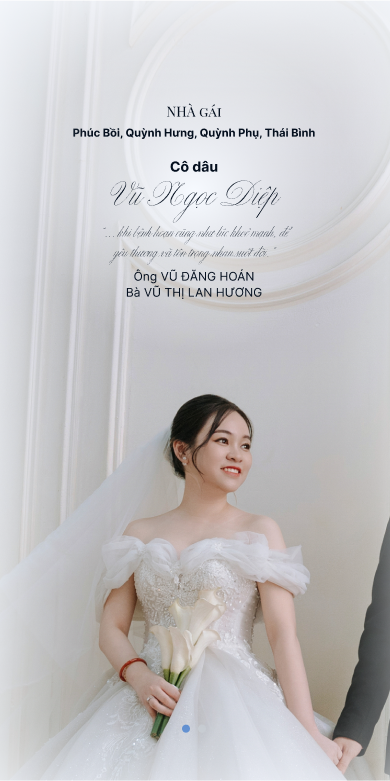
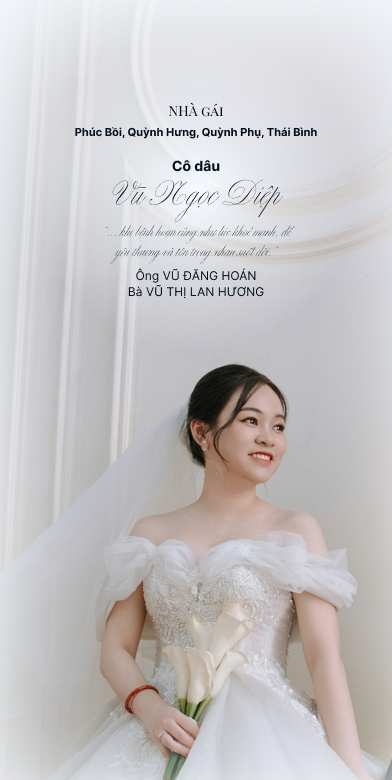
refactor: change background image to 2 separate background

diff --git a/src/components/Couple.js b/src/components/Couple.js
@@ -12,55 +12,88 @@ export const CoupleSession = forwardRef(function Couple(_, ref) {
   const theme = useTheme();
   const { isPhone } = useMedia();
   const nhaTrai = nha === "trai";
-  const [state, setState] = useState(nhaTrai ? "100%" : "0%");
+  const [state, setState] = useState(nhaTrai);
   const handleClick = () => {
-    return state === "100%" ? setState("0%") : setState("100%");
+    setState((prev) => !prev);
   };
   return isPhone ? (
-    <Box height={780} ref={ref}>
-      <Stack
-        sx={{
-          background: `linear-gradient(180deg, rgba(247, 250, 255, 0.00) 0%, rgba(247, 250, 255, 0.00) 10.66%, rgba(247, 250, 255, 0.00) 35.92%), linear-gradient(180deg, rgba(247, 250, 255, 0.20) 0%, rgba(247, 250, 255, 0.00) 28.33%), linear-gradient(180deg, rgba(255, 255, 255, 0.20) 8.85%, rgba(247, 250, 255, 0.00) 36.46%), linear-gradient(180deg, rgba(255, 255, 255, 0.20) 4.2%, rgba(247, 250, 255, 0.00) 36.68%), url("/images/bg-mobile.png") ${state} / cover no-repeat`,
-          boxShadow: "10px 10px 100px 0px #F7FAFF inset",
-          position: "relative",
-          height: "100%",
-          display: "flex",
-          flexDirection: "row",
-          justifyContent: "space-between",
-        }}
-        className={`background-image ${
-          state === "100%" ? "slide-in" : "slide-out"
-        }`}
+    <Stack
+      position="relative"
+      height={780}
+      width="100%"
+      ref={ref}
+      padding="32px 0"
+    >
+      <Typography
+        variant="headline1"
+        color={theme.palette.neutral.dark}
+        textAlign="center"
+        zIndex={2}
       >
-        {state === "100%" ? (
-          <button
-            onClick={handleClick}
-            style={{
-              width: "30px",
-              height: "30px",
-              margin: "auto 0px",
-              border: "none",
-              background: "transparent",
-            }}
-          >
-            <PrevIcon />
-          </button>
-        ) : (
-          <button
-            onClick={handleClick}
-            style={{
-              width: "30px",
-              height: "30px",
-              margin: "auto 90%",
-              border: "none",
-              background: "transparent",
-            }}
-          >
-            <NextIcon />
-          </button>
-        )}
-      </Stack>
-    </Box>
+        CÔ DÂU & CHÚ RỂ
+      </Typography>
+      <Image
+        src="/images/couple-bride.png"
+        alt="couple bride"
+        quality={100}
+        fill
+        sizes="100vw"
[1 lines of base64/hex data omitted]
+        style={{
+          objectFit: "cover",
+          transition: theme.transitions.create(["all"], {
+            easing: theme.transitions.easing.sharp,
+            duration: theme.transitions.duration.enteringScreen,
+          }),
+          transform: state ? "translateX(-100%)" : "",
+        }}
+      />
+      <Image
+        src="/images/couple-groom.png"
+        alt="couple bride"
+        quality={100}
+        fill
+        sizes="100vw"
[1 lines of base64/hex data omitted]
+        style={{
+          objectFit: "cover",
+          transition: theme.transitions.create(["all"], {
+            easing: theme.transitions.easing.sharp,
+            duration: theme.transitions.duration.enteringScreen,
+          }),
+          transform: state ? "" : "translateX(100%)",
+        }}
+      />
+      {state ? (
+        <button
+          onClick={handleClick}
+          style={{
+            width: "30px",
+            height: "30px",
+            margin: "auto 0px",
+            border: "none",
+            background: "transparent",
+            zIndex: 1,
+          }}
+        >
+          <PrevIcon />
+        </button>
+      ) : (
+        <button
+          onClick={handleClick}
+          style={{
+            width: "30px",
+            height: "30px",
+            margin: "auto 90%",
+            border: "none",
+            background: "transparent",
+            zIndex: 1,
+          }}
+        >
+          <NextIcon />
+        </button>
+      )}
+    </Stack>
   ) : (
     <Box
       ref={ref}
